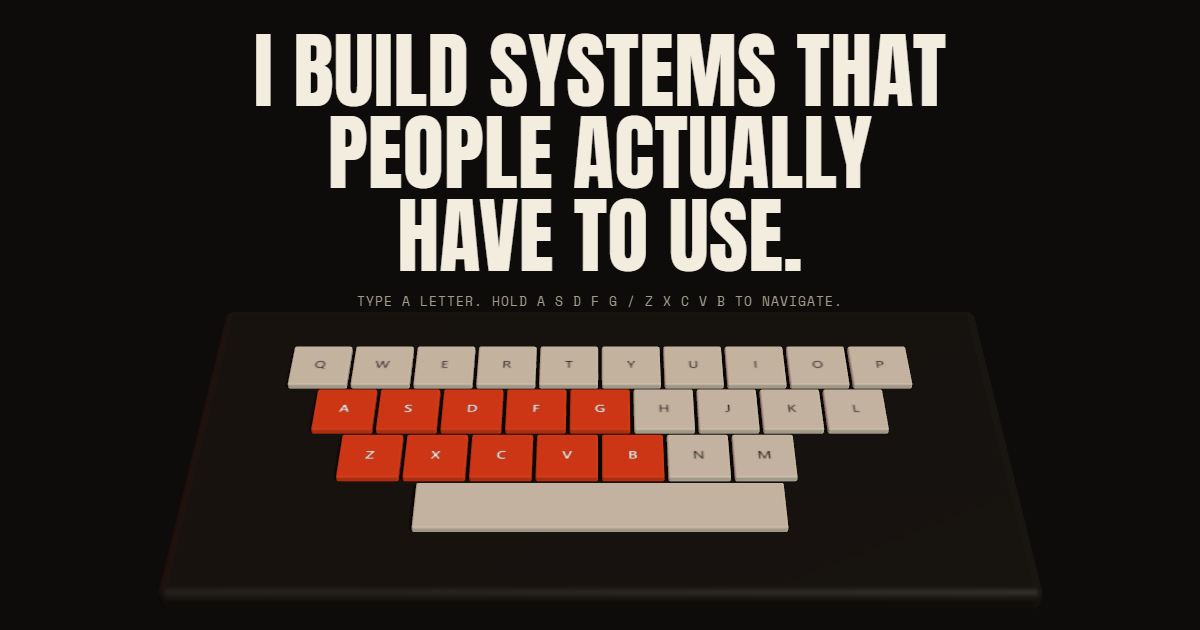
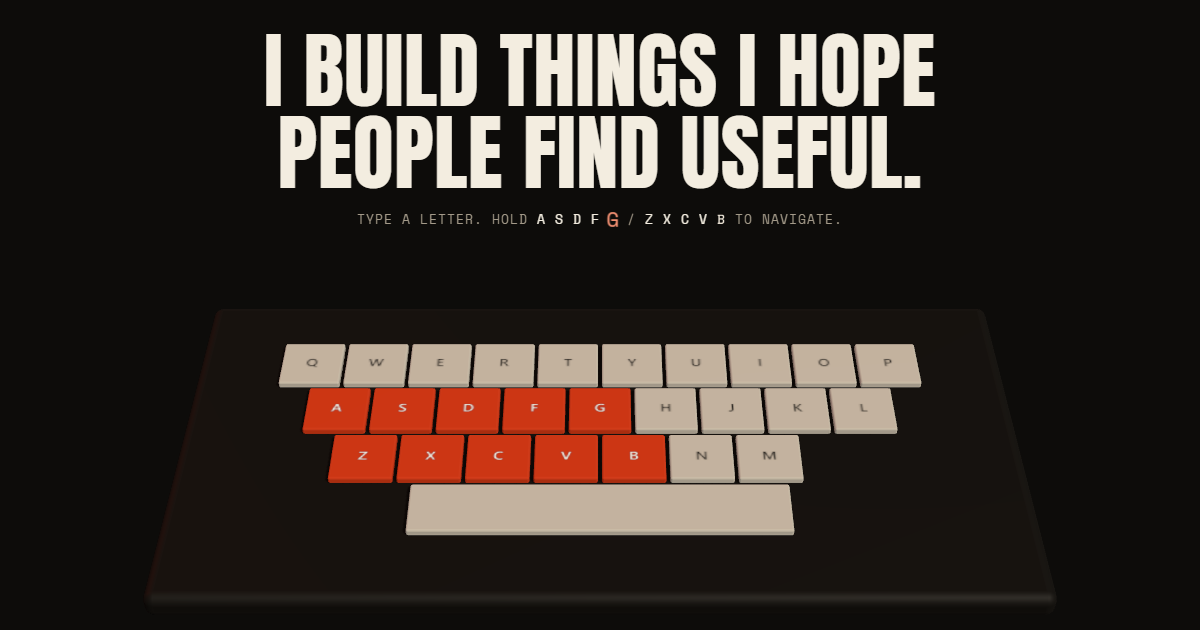
Humble the headline, add a joke light-mode button
- Headline changed from "I build systems that people actually have to
  use." to "I build things I hope people find useful." (hero H1, About
  H2 gets its own complementary line, meta description, OG tags) — per
  feedback that the original read as cocky. Applied to both index.html
  and dev/keyboard-preview.html; regenerated images/social.png since it's
  a live screenshot of the hero.
- Added a light-mode toggle button (sun icon, header) that doesn't
  actually have a light theme to switch to — it's a joke: a quick flash,
  a handful of bug emoji fly in toward the button, and a toast says
  "Light mode attracts bugs. Reverting." Respects prefers-reduced-motion
  (skips the flying bugs, keeps flash+toast).

Verified: node tools/check.mjs clean; regenerated OG image reflects the
new headline.

Claude-Session: https://claude.ai/code/session_01VJrkHAt3ngNvAEUTQsCvW3

Changed region(s): [[0.2158, 0.0302, 0.8017, 0.4825], [0.2158, 0.5429, 0.7708, 0.8746]]

diff --git a/index.html b/index.html
@@ -13,7 +13,7 @@
     <meta property="og:type" content="website" />
     <meta
       property="og:title"
-      content="Munkhdelger Tumenbayar — I build systems that people actually have to use."
+      content="Munkhdelger Tumenbayar — I build things I hope people find useful."
     />
     <meta
       property="og:description"
@@ -28,7 +28,7 @@
     <meta property="og:image:height" content="630" />
     <meta
       property="og:image:alt"
-      content="Munkhdelger Tumenbayar — I build systems that people actually have to use."
+      content="Munkhdelger Tumenbayar — I build things I hope people find useful."
     />
     <meta name="twitter:card" content="summary_large_image" />
     <link rel="icon" href="images/mark.svg" type="image/svg+xml" />
@@ -622,6 +622,101 @@
           gap: 4px 10px;
         }
       }
+      .light-mode-toggle {
+        flex-shrink: 0;
+        width: 26px;
+        height: 26px;
+        border: 1px solid var(--muted);
+        border-radius: 50%;
+        color: var(--muted);
+        font-size: 13px;
+        line-height: 1;
+        display: grid;
+        place-items: center;
+        cursor: pointer;
+      }
+      .light-mode-toggle:hover {
+        color: var(--accent);
+        border-color: var(--accent);
+      }
+      /* The joke: this never actually switches to a light theme — it
+         flashes, a few bugs show up (light attracts bugs, and "bugs" —
+         you know), and it apologizes. */
+      .light-flash {
+        position: fixed;
+        inset: 0;
+        background: #f3ede0;
+        opacity: 0;
+        z-index: 85;
+        pointer-events: none;
+        transition: opacity 0.18s ease;
+      }
+      .light-flash.is-flashing {
+        opacity: 0.92;
+        transition: opacity 0.06s ease;
+      }
+      .light-toast {
+        position: fixed;
+        top: 58px;
+        left: 50%;
+        z-index: 90;
+        transform: translateX(-50%) translateY(-6px);
+        background: var(--accent);
+        color: var(--bg);
+        font: 11px var(--font-mono);
+        letter-spacing: 0.06em;
+        text-transform: uppercase;
+        padding: 9px 16px;
+        opacity: 0;
+        pointer-events: none;
+        transition:
+          opacity 0.3s ease,
+          transform 0.3s ease;
+        white-space: nowrap;
+      }
+      .light-toast.is-visible {
+        opacity: 1;
+        transform: translateX(-50%) translateY(0);
+      }
+      .light-bug {
+        position: fixed;
+        left: 0;
+        top: 0;
+        z-index: 89;
+        font-size: 20px;
+        pointer-events: none;
+        opacity: 0;
+        animation: light-bug-flutter 1.6s ease-in forwards;
+      }
+      @keyframes light-bug-flutter {
+        0% {
+          opacity: 0;
+          transform: translate(var(--sx), var(--sy)) rotate(0deg) scale(0.6);
+        }
+        12% {
+          opacity: 1;
+        }
+        45% {
+          transform: translate(
+              calc((var(--sx) + var(--ex)) / 2 + 30px),
+              calc((var(--sy) + var(--ey)) / 2 - 40px)
+            )
+            rotate(180deg) scale(1);
+        }
+        85% {
+          opacity: 1;
+        }
+        100% {
+          opacity: 0;
+          transform: translate(var(--ex), var(--ey)) rotate(340deg) scale(0.8);
+        }
+      }
+      @media (prefers-reduced-motion: reduce) {
+        .light-bug {
+          animation: none;
+          display: none;
+        }
+      }
       #status {
         position: fixed;
         bottom: 8px;
@@ -647,13 +742,22 @@
         <a href="#resume">CV</a>
         <a href="#links">Links</a>
       </nav>
+      <button
+        type="button"
+        class="light-mode-toggle"
+        id="light-toggle"
+        title="Light mode"
+        aria-label="Try light mode"
+      >
+        ☀
+      </button>
     </header>
     <div id="status">loading…</div>
 
     <div class="keyboard-hero-spacer" id="hero-spacer">
       <div class="keyboard-stage-fixed" id="stage-fixed">
         <div class="keyboard-hero-copy" id="hero-copy">
-          <h1>I build systems that people actually have to use.</h1>
+          <h1>I build things I hope people find useful.</h1>
           <p id="hero-hint">Type a letter. Hold A S D F G / Z X C V B to navigate.</p>
         </div>
         <div class="keyboard-canvas-wrap" id="canvas-wrap">
@@ -667,7 +771,7 @@
 
     <section class="section" id="about">
       <span class="eyebrow">The person behind the specimen</span>
-      <h2>I build systems that people actually have to use.</h2>
+      <h2>I try to build things that actually help.</h2>
       <p>
         I'm a senior full-stack engineer based in Mongolia, working across
         financial technology, public systems, mobile applications and
@@ -1097,6 +1201,54 @@
         history.pushState(null, "", location.pathname);
         scrollTo({ top: 0, behavior: "smooth" });
       });
+
+      // A "light mode" button that doesn't actually have a light theme to
+      // switch to — it flashes, a few bugs show up, and it apologizes.
+      const lightToggle = document.getElementById("light-toggle");
+      if (lightToggle) {
+        const flash = document.createElement("div");
+        flash.className = "light-flash";
+        const toast = document.createElement("div");
+        toast.className = "light-toast";
+        toast.textContent = "Light mode attracts bugs. Reverting.";
+        document.body.append(flash, toast);
+        const BUG_EMOJI = ["🦟", "🪰", "🐛", "🦋"];
+        let toastTimer = null;
+        lightToggle.addEventListener("click", () => {
+          flash.classList.add("is-flashing");
+          setTimeout(() => flash.classList.remove("is-flashing"), 90);
+          clearTimeout(toastTimer);
+          toast.classList.add("is-visible");
+          toastTimer = setTimeout(
+            () => toast.classList.remove("is-visible"),
+            2200,
+          );
+          if (motionReduced) return;
+          const target = lightToggle.getBoundingClientRect();
+          const bugCount = 6;
+          for (let i = 0; i < bugCount; i++) {
+            const bug = document.createElement("span");
+            bug.className = "light-bug";
+            bug.textContent =
+              BUG_EMOJI[Math.floor(Math.random() * BUG_EMOJI.length)];
+            const startX = Math.random() * innerWidth;
+            const startY = innerHeight + 30;
+            bug.style.setProperty("--sx", `${startX}px`);
+            bug.style.setProperty("--sy", `${startY}px`);
+            bug.style.setProperty(
+              "--ex",
+              `${target.left + 10 + Math.random() * 16}px`,
+            );
+            bug.style.setProperty(
+              "--ey",
+              `${target.top + 10 + Math.random() * 10}px`,
+            );
+            bug.style.animationDelay = `${i * 70}ms`;
+            document.body.appendChild(bug);
+            setTimeout(() => bug.remove(), 1900 + i * 70);
+          }
+        });
+      }
 
       addEventListener("pointermove", (e) => {
         nav.scene?.setPointer(e.clientX / innerWidth - 0.5, e.clientY / innerHeight - 0.5);

diff --git a/dev/keyboard-preview.html b/dev/keyboard-preview.html
@@ -553,6 +553,98 @@
           gap: 4px 10px;
         }
       }
+      .light-mode-toggle {
+        flex-shrink: 0;
+        width: 26px;
+        height: 26px;
+        border: 1px solid var(--muted);
+        border-radius: 50%;
+        color: var(--muted);
+        font-size: 13px;
+        line-height: 1;
+        display: grid;
+        place-items: center;
+        cursor: pointer;
+      }
+      .light-mode-toggle:hover {
+        color: var(--accent);
+        border-color: var(--accent);
+      }
+      .light-flash {
+        position: fixed;
+        inset: 0;
+        background: #f3ede0;
+        opacity: 0;
+        z-index: 85;
+        pointer-events: none;
+        transition: opacity 0.18s ease;
+      }
+      .light-flash.is-flashing {
+        opacity: 0.92;
+        transition: opacity 0.06s ease;
+      }
+      .light-toast {
+        position: fixed;
+        top: 58px;
+        left: 50%;
+        z-index: 90;
+        transform: translateX(-50%) translateY(-6px);
+        background: var(--accent);
+        color: var(--bg);
+        font: 11px var(--font-mono);
+        letter-spacing: 0.06em;
+        text-transform: uppercase;
+        padding: 9px 16px;
+        opacity: 0;
+        pointer-events: none;
+        transition:
+          opacity 0.3s ease,
+          transform 0.3s ease;
+        white-space: nowrap;
+      }
+      .light-toast.is-visible {
+        opacity: 1;
+        transform: translateX(-50%) translateY(0);
+      }
+      .light-bug {
+        position: fixed;
+        left: 0;
+        top: 0;
+        z-index: 89;
+        font-size: 20px;
+        pointer-events: none;
+        opacity: 0;
+        animation: light-bug-flutter 1.6s ease-in forwards;
+      }
+      @keyframes light-bug-flutter {
+        0% {
+          opacity: 0;
+          transform: translate(var(--sx), var(--sy)) rotate(0deg) scale(0.6);
+        }
+        12% {
+          opacity: 1;
+        }
+        45% {
+          transform: translate(
+              calc((var(--sx) + var(--ex)) / 2 + 30px),
+              calc((var(--sy) + var(--ey)) / 2 - 40px)
+            )
+            rotate(180deg) scale(1);
+        }
+        85% {
+          opacity: 1;
+        }
+        100% {
+          opacity: 0;
+          transform: translate(var(--ex), var(--ey)) rotate(340deg) scale(0.8);
+        }
+      }
+      @media (prefers-reduced-motion: reduce) {
+        .light-bug {
+          animation: none;
+          display: none;
+        }
+      }
       #status {
         position: fixed;
         bottom: 8px;
@@ -578,13 +670,22 @@
         <a href="#resume">CV</a>
         <a href="#links">Links</a>
       </nav>
+      <button
+        type="button"
+        class="light-mode-toggle"
+        id="light-toggle"
+        title="Light mode"
+        aria-label="Try light mode"
+      >
+        ☀
+      </button>
     </header>
     <div id="status">loading…</div>
 
     <div class="keyboard-hero-spacer" id="hero-spacer">
       <div class="keyboard-stage-fixed" id="stage-fixed">
         <div class="keyboard-hero-copy" id="hero-copy">
-          <h1>I build systems that people actually have to use.</h1>
+          <h1>I build things I hope people find useful.</h1>
           <p id="hero-hint">Type a letter. Hold A S D F G / Z X C V B to navigate.</p>
         </div>
         <div class="keyboard-canvas-wrap" id="canvas-wrap">
@@ -598,7 +699,7 @@
 
     <section class="section" id="about">
       <span class="eyebrow">The person behind the specimen</span>
-      <h2>I build systems that people actually have to use.</h2>
+      <h2>I try to build things that actually help.</h2>
       <p>
         I'm a senior full-stack engineer based in Mongolia, working across
         financial technology, public systems, mobile applications and
@@ -1025,6 +1126,51 @@
         history.pushState(null, "", location.pathname);
         scrollTo({ top: 0, behavior: "smooth" });
       });
+
+      const lightToggle = document.getElementById("light-toggle");
+      if (lightToggle) {
+        const flash = document.createElement("div");
+        flash.className = "light-flash";
+        const toast = document.createElement("div");
+        toast.className = "light-toast";
+        toast.textContent = "Light mode attracts bugs. Reverting.";
+        document.body.append(flash, toast);
+        const BUG_EMOJI = ["🦟", "🪰", "🐛", "🦋"];
+        let toastTimer = null;
+        lightToggle.addEventListener("click", () => {
+          flash.classList.add("is-flashing");
+          setTimeout(() => flash.classList.remove("is-flashing"), 90);
+          clearTimeout(toastTimer);
+          toast.classList.add("is-visible");
+          toastTimer = setTimeout(
+            () => toast.classList.remove("is-visible"),
+            2200,
+          );
+          if (motionReduced) return;
+          const target = lightToggle.getBoundingClientRect();
+          for (let i = 0; i < 6; i++) {
+            const bug = document.createElement("span");
+            bug.className = "light-bug";
+            bug.textContent =
+              BUG_EMOJI[Math.floor(Math.random() * BUG_EMOJI.length)];
+            const startX = Math.random() * innerWidth;
+            const startY = innerHeight + 30;
+            bug.style.setProperty("--sx", `${startX}px`);
+            bug.style.setProperty("--sy", `${startY}px`);
+            bug.style.setProperty(
+              "--ex",
+              `${target.left + 10 + Math.random() * 16}px`,
+            );
+            bug.style.setProperty(
+              "--ey",
+              `${target.top + 10 + Math.random() * 10}px`,
+            );
+            bug.style.animationDelay = `${i * 70}ms`;
+            document.body.appendChild(bug);
+            setTimeout(() => bug.remove(), 1900 + i * 70);
+          }
+        });
+      }
 
       addEventListener("pointermove", (e) => {
         nav.scene?.setPointer(e.clientX / innerWidth - 0.5, e.clientY / innerHeight - 0.5);
